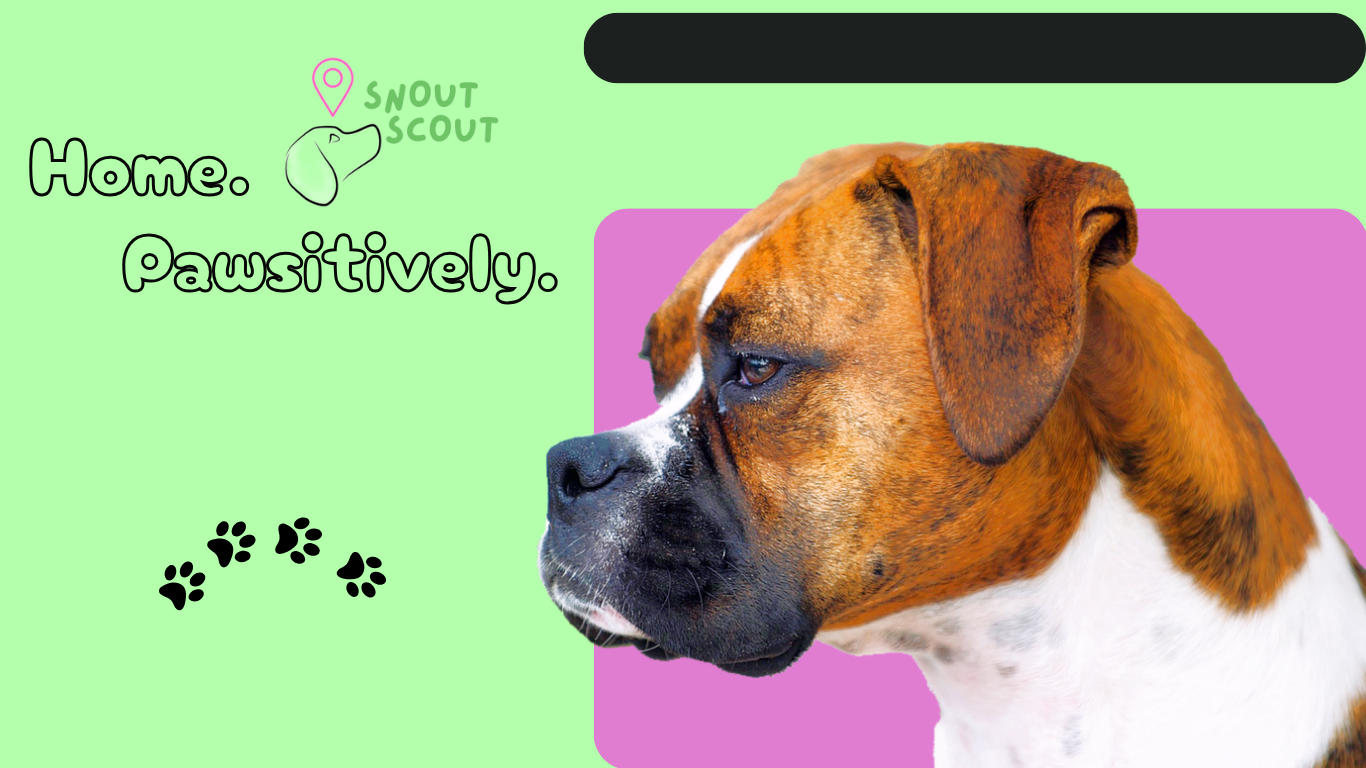
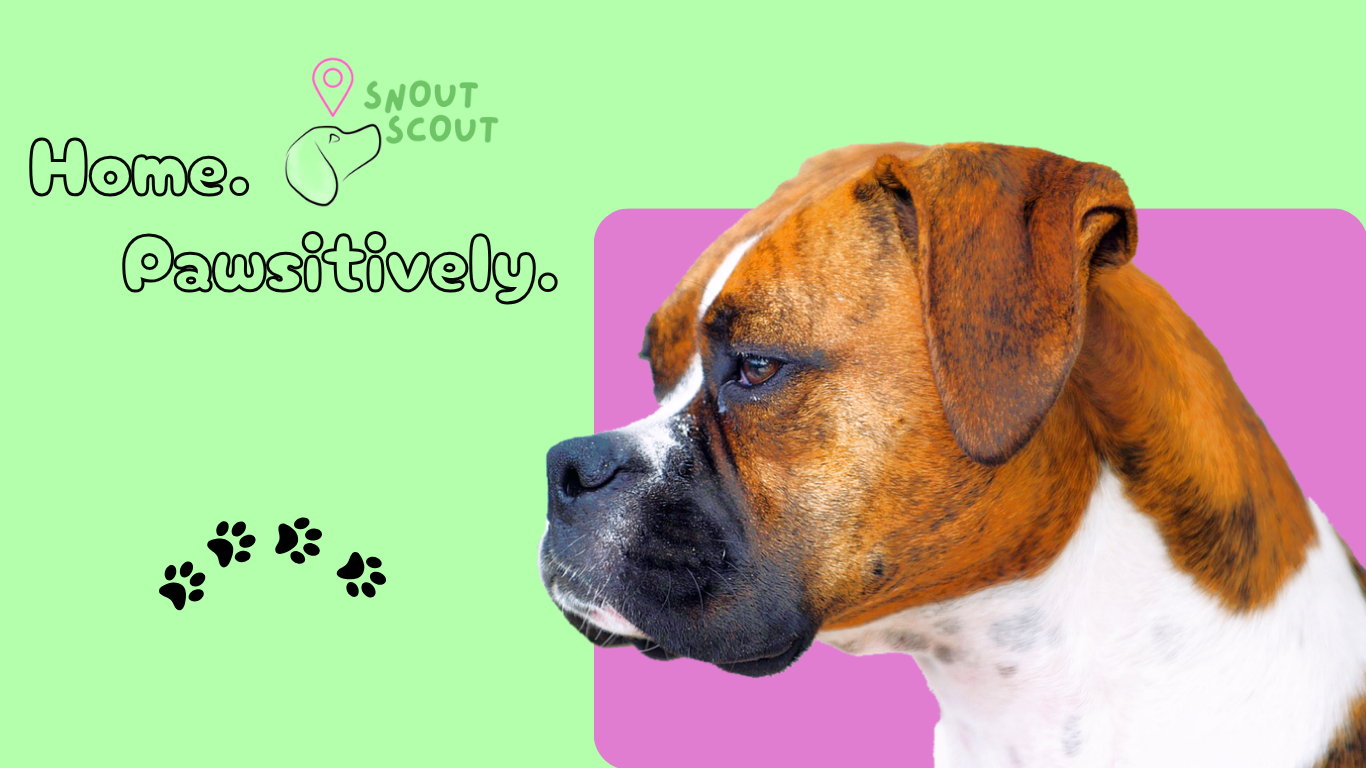
Added Three Top Buttons

Changed region(s): [[0.4305, 0.0, 1.0, 0.125]]

diff --git a/index.html b/index.html
@@ -17,22 +17,22 @@
 
     /* Background image styling */
    .homepage {
-  background-image: url('homepage.png');
-  background-size: cover;
-  background-position: center;
-  background-repeat: no-repeat;
-  height: 100vh;
-  position: relative; /* needed for absolute positioning of children */
-}
+      background-image: url('homepage.png');
+      background-size: cover;
+      background-position: center;
+      background-repeat: no-repeat;
+      height: 100vh;
+      position: relative; /* needed for absolute positioning of children */
+    }
 
-/* Button container with absolute positioning */
-.button-container {
-  position: absolute; 
-  left: 130px; /* horizontal distance from left of page */
-  top: 660px;  /* vertical distance from top of page */
-  display: flex;
-  gap: 50px;
-}
+    /* Button container with absolute positioning */
+    .button-container {
+      position: absolute; 
+      left: 130px; /*from left*/
+      top: 660px;  /*from top*/
+      display: flex;
+      gap: 50px;
+    }
 
     /* Button style */
     .button-container button {
@@ -52,7 +52,46 @@
       transform: scale(1.05);
     }
 
+    .topright-buttons{
+       display: flex;
+      justify-content: flex-end;
+      gap: 25px;
+      padding: 30px 60px; 
+    }
+
+    .topright-buttons button{
+      background-color: transparent;
+      color: rgb(0, 0, 0);
+      border: 2px solid rgb(0, 0, 0);
+      border-radius: 8px;
+      font-size: 18px;
+      font-weight: 600;
+      padding: 10px 25px;
+      cursor: pointer;
+      transition: all 0.3s ease;
+      backdrop-filter: blur(5px);
+    }
+
+    .topright-buttons button:hover{
+      background-color: white;
+      color: #000000;
+      transform: translateY(-2px);
+    }
+
     @media (max-width: 768px) {
+      .topright-buttons{
+        flex-direction: column;
+        align-items: flex-end;
+        gap: 10px;
+        padding: 20px;
+      }
+
+      .topright-buttons button {
+        font-size: 16px;
+        padding: 8px 20px;
+      }
+
+
       .button-container {
         flex-direction: column;
         gap: 20px;
@@ -66,8 +105,12 @@
   </style>
 </head>
 <body>
-
   <div class="homepage">
+    <div class = "topright-buttons">
+      <button onclick="window.location.href='flyers.html'">Flyers</button>
+      <button onclick="window.location.href='media.html'">Media</button>
+      <button onclick="window.location.href='about.html'">About</button>
+    </div>
     <div class="button-container">
       <button onclick="window.location.href='reportform.html'">Lost</button>
       <button onclick="window.location.href='foundform.html'">Found</button>

diff --git a/about.html b/about.html
@@ -1,0 +1,2 @@
+<p>we find dog</p>
+<button class="back" onclick="location.href='index.html'">← Back to Home</button>
